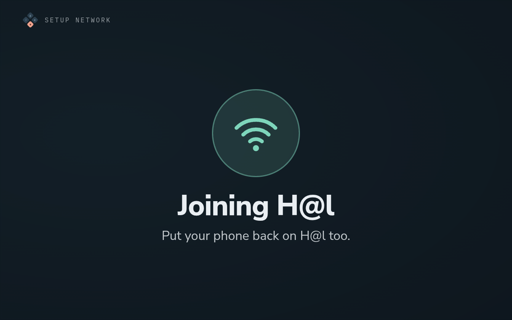
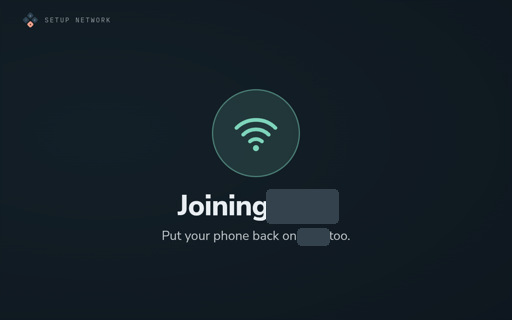
Docs and tests: placeholder network values, as PR #54

Changed region(s): [[0.5, 0.5938, 0.6875, 0.7812]]

diff --git a/core/tests/test_problem_report.py b/core/tests/test_problem_report.py
@@ -11,7 +11,7 @@ JOURNAL = """\
 2026-10-07T08:12:45+02:00 livingroom avahi-daemon[758]: Joining mDNS multicast group on interface wlan0.IPv4 with address 10.0.4.17.
 2026-10-07T08:12:45+02:00 livingroom sshd-session[901]: Accepted publickey for pi from 10.0.4.23 port 51234 ssh2: ED25519 SHA256:Qx7b2Lk9fP0aZr4TmW8vYc3NhE6uJd1sKo5gBi2XyA
 2026-10-07T08:12:46+02:00 livingroom python[812]: 2026-10-07 08:12:46,001 aiohttp.access INFO 10.0.4.23 [07/Oct/2026:08:12:46 +0200] "GET /library/artist-info?id=42&name=Nina%20Example HTTP/1.1" 200 512 "-" "Mozilla/5.0 (Linux; Android 14)"
-2026-10-07T08:12:47+02:00 livingroom python[812]: 2026-10-07 08:12:47,002 gexis_core.adapters.lms INFO lms: resolved player 'Kitchen Speaker' to id 3c:22:fb:01:9a:7e
+2026-10-07T08:12:47+02:00 livingroom python[812]: 2026-10-07 08:12:47,002 gexis_core.adapters.lms INFO lms: resolved player 'Kitchen Speaker' to id aa:bb:cc:00:00:04
 2026-10-07T08:12:48+02:00 livingroom python[812]: 2026-10-07 08:12:48,003 gexis_core.enrichment INFO enrichment: looking up 'Blue Harbour Lights' by 'Nina Example'
 2026-10-07T08:12:49+02:00 livingroom python[812]: 2026-10-07 08:12:49,004 gexis_core.weather INFO weather: 'Smalltown,12345, Region, Country' is Smalltown, XX (52.12345, 13.54321)
 2026-10-07T08:12:50+02:00 livingroom python[812]: 2026-10-07 08:12:50,005 gexis_core.bluetooth_adapter_state INFO bluetooth: discoverable='Always'

diff --git a/core/tests/test_bluetooth_agent.py b/core/tests/test_bluetooth_agent.py
@@ -309,7 +309,7 @@ def _tree():
     return {
         "/org/bluez/hci0": {bas.ADAPTER_IFACE: {}},
         "/org/bluez/hci0/dev_A": {
-            DEVICE_IFACE: _Props(Paired=True, Trusted=True, Connected=True, Alias="Pixel 10 Pro", Address="64:9D:38:E3:E5:2A")
+            DEVICE_IFACE: _Props(Paired=True, Trusted=True, Connected=True, Alias="Pixel 10 Pro", Address="AA:BB:CC:00:00:03")
         },
         "/org/bluez/hci0/dev_B": {
             DEVICE_IFACE: _Props(Paired=True, Trusted=False, Connected=False, Alias="Kitchen Echo", Address="AA:BB:CC:DD:EE:FF")

diff --git a/core/tests/test_menus.py b/core/tests/test_menus.py
@@ -110,7 +110,7 @@ class Lyrion:
 
 
 def menus(lyrion=None):
-    return LyrionMenus(lyrion or Lyrion(), lambda: "88:a2:9e:79:e1:32", lambda: "http://lms:9000")
+    return LyrionMenus(lyrion or Lyrion(), lambda: "aa:bb:cc:00:00:02", lambda: "http://lms:9000")
 
 
 @pytest.mark.asyncio

diff --git a/tools/phase-2c/takeover_gap.py b/tools/phase-2c/takeover_gap.py
@@ -53,7 +53,7 @@ import spotify_api
 from spectrum_fifo import SpectrumReader, measure_takeover_gap
 
 LMS_BASE = "http://192.168.178.188:9000"
-LMS_PLAYER = "e4:5f:01:58:89:07"
+LMS_PLAYER = "aa:bb:cc:00:00:01"
 _rpc_id = [0]
 
 

diff --git a/tools/phase-2c/attack_test_adr0027.py b/tools/phase-2c/attack_test_adr0027.py
@@ -39,7 +39,7 @@ import pcm_holder  # noqa: E402
 import spotify_api  # noqa: E402
 
 LMS_BASE = "http://192.168.178.188:9000"
-PLAYER = "e4:5f:01:58:89:07"
+PLAYER = "aa:bb:cc:00:00:01"
 POLL_INTERVAL_S = 0.02
 _id = [0]
 

diff --git a/tools/phase-2c/lms_cli.py b/tools/phase-2c/lms_cli.py
@@ -11,7 +11,7 @@ import urllib.parse
 
 LMS_HOST = "192.168.178.188"
 LMS_CLI_PORT = 9090
-GEXIS_PLAYER_ID = "e4:5f:01:58:89:07"
+GEXIS_PLAYER_ID = "aa:bb:cc:00:00:01"
 
 
 def _enc(s):

diff --git a/tools/phase-2c/bt_attack_test.py b/tools/phase-2c/bt_attack_test.py
@@ -16,7 +16,7 @@ import pcm_holder
 import spotify_api
 from attack_test import Watcher
 
-BT_MAC = "64:9D:38:E3:E5:2A"
+BT_MAC = "AA:BB:CC:00:00:03"
 
 
 def bt_reconnect_attempt():

diff --git a/docs/HANDOFF-ARCHIVE.md b/docs/HANDOFF-ARCHIVE.md
@@ -144,9 +144,9 @@ verified** — this build predates the change.
 
 **LMS details for testing:** CLI on port 9090 (works from `gexis` via
 `bash`'s `/dev/tcp`; telnet and `nc` aren't on the image). `gexis`
-registers with playerid `e4:5f:01:58:89:07` — the **wlan0** MAC, not
+registers with playerid `aa:bb:cc:00:00:01` — the **wlan0** MAC, not
 eth0 (the machine has both). moOde is also registered
-(`88:a2:9e:79:e1:32`), useful as a second player for takeover testing.
+(`aa:bb:cc:00:00:02`), useful as a second player for takeover testing.
 
 **Volume is confirmed global across renderers, as criterion 5 expects:**
 moving it via LMS moves the hardware mixer, which then also affects
@@ -2477,7 +2477,7 @@ a bare GET to `/jsonrpc.js` with no body and a 5s timeout — LMS
 apparently only handles POST there, so the GET just hung until the
 timeout, which read as "unreachable." A real JSON-RPC POST succeeded
 immediately, confirmed the "gexis" LMS player exists
-(`e4:5f:01:58:89:07`, `192.168.178.188:9000`), and running the LMS
+(`aa:bb:cc:00:00:01`, `192.168.178.188:9000`), and running the LMS
 adapter's `run()` against it end-to-end — handshake, `/slim/subscribe`,
 then a real `playlist play` triggered from the test itself — produced a
 genuine CometD `mode -> play` push and fired `on_acquire()` within 4
@@ -3051,7 +3051,7 @@ units; all renderer, core, kiosk, meter and Peppy units running.
   every reflash** (`provision.local.env` carries R2D2's key only; George chose
   not to change `provision.sh`):
   `ssh pi@gexis.local 'cat >> ~/.ssh/authorized_keys' < ~/.ssh/c3po_id_ed25519.pub`.
-- LMS player `gexis` (`88:a2:9e:79:e1:32`): `digitalVolumeControl` **1**
+- LMS player `gexis` (`aa:bb:cc:00:00:02`): `digitalVolumeControl` **1**
   after the reflash, read over JSON-RPC. LMS itself was not restarted, so the
   "after an LMS restart" half of that check was not made.
 - Core tests on R2D2: 444 passed, 1 skipped (scratch venv, `core[test]`).

diff --git a/design/IMPLEMENTED-DIFFERENTLY.md b/design/IMPLEMENTED-DIFFERENTLY.md
@@ -321,18 +321,18 @@ steps follow what the device sees:
    loaded the page. *panel-setup-3-carry-on-on-your-phone.png*
 5. **Joining <network>** - a pulsing Wi-Fi icon in the circle, 72 px title,
    *"Put your phone back on <network> too."*; it stays up while the player looks
-   for a Lyrion server. *panel-setup-4-joining.png*
+   for a Lyrion server. *panel-setup-4-joining.png* (the home network's name hidden, 2026-10-08)
 6. **Done** - a check in the circle, *"<name> is on <network>"*, *"Restarting to
    take its new name…"* when renaming, and **below it, apart, a card with the
    Lyrion mark**: *Found your Lyrion server* with the server's name and address,
    or the address given, *N Lyrion servers found - choose one in Settings*,
    *Lyrion is off*, or *No Lyrion server found*. 10 s, then the panel's own
    screens - or straight to the restart, with nothing in between (George: the
-   home screen must not blink first). *panel-setup-5-done-with-lyrion.png*
+   home screen must not blink first). *panel-setup-5-done-with-lyrion.png* (the home network's name hidden, 2026-10-08)
 
 - **Could not join** - the join step headed by a 64 px warning triangle and
   *"Could not join <network>"* with the reason and *"Everything else you
-  entered is kept."* *panel-setup-could-not-join.png* (taken before the spacing
+  entered is kept."* *panel-setup-could-not-join.png* (the home network's name hidden, 2026-10-08) (taken before the spacing
   was loosened).
 - **The setup network did not start** - the triangle in the circle, the reason
   in mono, and *"Trying again in a moment."*

diff --git a/docs/decisions/0123-the-network-in-settings-cable-and-wi-fi.md b/docs/decisions/0123-the-network-in-settings-cable-and-wi-fi.md
@@ -83,7 +83,7 @@ five**: details live in the sheet a row opens, not on the page.
     phone and panel, while a change waits; at the old address it names the
     new one to open.
 - **Tried on guestpi, 2026-10-08,** with nothing playing:
-  1. a manual address (`192.0.2.230/24`, checked free by ping and ARP
+  1. a manual address (a free one on the home network, checked by ping and ARP
      first) answered at once; *Keep* from the Wi-Fi address was refused;
      not kept, the cable went back to DHCP 60 s later to the second;
   2. set again and kept from the new address, through the page: the banner,
@@ -100,7 +100,7 @@ five**: details live in the sheet a row opens, not on the page.
   `http://None:8090`. A change now names the typed address (Manual), or waits
   up to 20 s for DHCP's (Automatic).
 - **Tried on guestpi, Wi-Fi, 2026-10-08,** working over the cable: a manual
-  `192.0.2.231/24`, not kept, back to DHCP after 60 s plus the rejoin;
+  address, not kept, back to DHCP after 60 s plus the rejoin;
   set again and kept from `.231`; back to *Automatic*, kept at `.21`.
 - **Consequence corrected:** "a backup carries it like the Wi-Fi networks"
   above is wrong. A backup holds no NetworkManager profile (ADR-0083's

diff --git a/docs/findings/074-the-handoffs-issues-triaged.md b/docs/findings/074-the-handoffs-issues-triaged.md
@@ -44,13 +44,13 @@ What was missing was not a fix but a name. The daemon now reads the pref once
 the player id is known and says what it found:
 
 ```
-lms: digitalVolumeControl=1 on 88:a2:9e:79:e1:32
+lms: digitalVolumeControl=1 on aa:bb:cc:00:00:02
 ```
 
 and, with it at 0:
 
 ```
-lms: player 88:a2:9e:79:e1:32 has digitalVolumeControl=0 (fixed volume). LMS
+lms: player aa:bb:cc:00:00:02 has digitalVolumeControl=0 (fixed volume). LMS
 will move its own number and always send full level, so no volume change from
 LMS or a phone reaches this device, and mute cannot be ended from there. Set
 it to 1 in LMS's player settings.

diff --git a/docs/findings/088-making-plexamp-behave-like-the-other-renderers.md b/docs/findings/088-making-plexamp-behave-like-the-other-renderers.md
@@ -180,7 +180,7 @@ of the player can know when Plexamp selects or deselects it.**
 `onmomo/squeeze-plex-hub`, MIT, Nuxt/Nitro, a GDM announcer plus a per-player
 Plex façade in front of LMS selected by `X-Plex-Target-Client-Identifier`. It
 **already advertises this device's own squeezelite** as a Plex target, and
-`/api/players` shows it discovering both `gexis` (`88:a2:9e:79:e1:32`) and
+`/api/players` shows it discovering both `gexis` (`aa:bb:cc:00:00:02`) and
 `ShelvesPi` from `Lyrion Music Server (Docker)`.
 
 Same 24-bit/192 kHz FLAC, same DAC, both paths:
